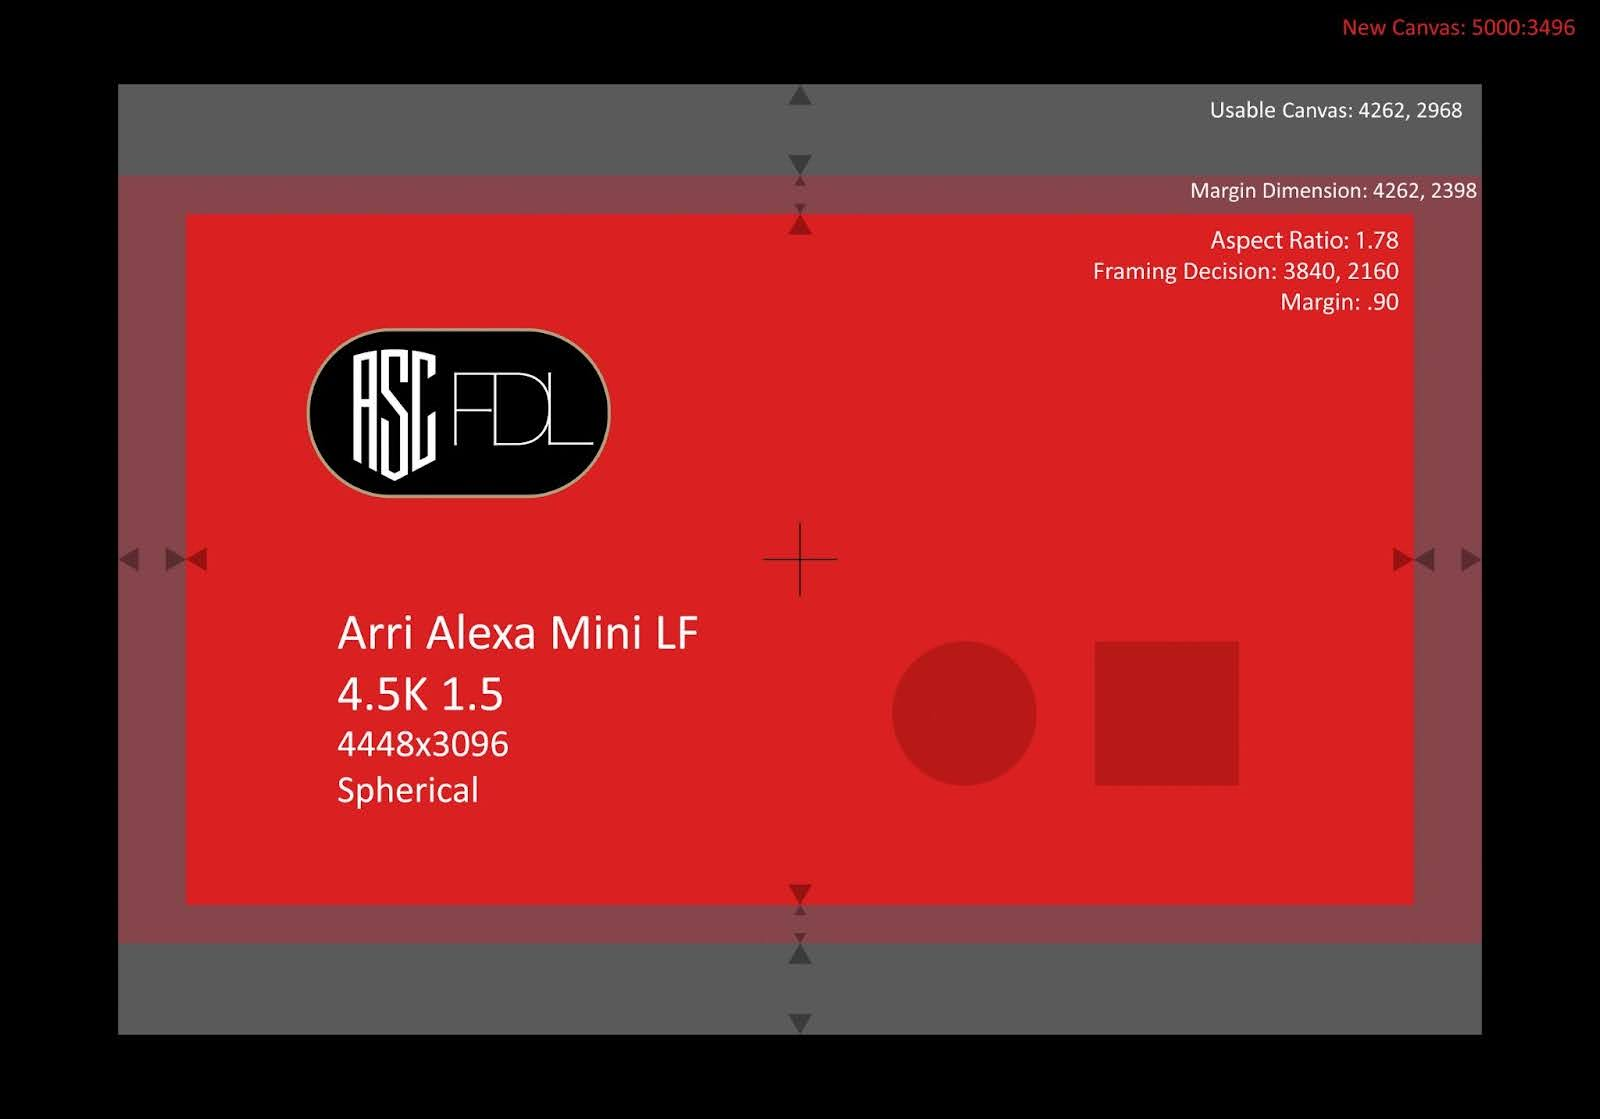
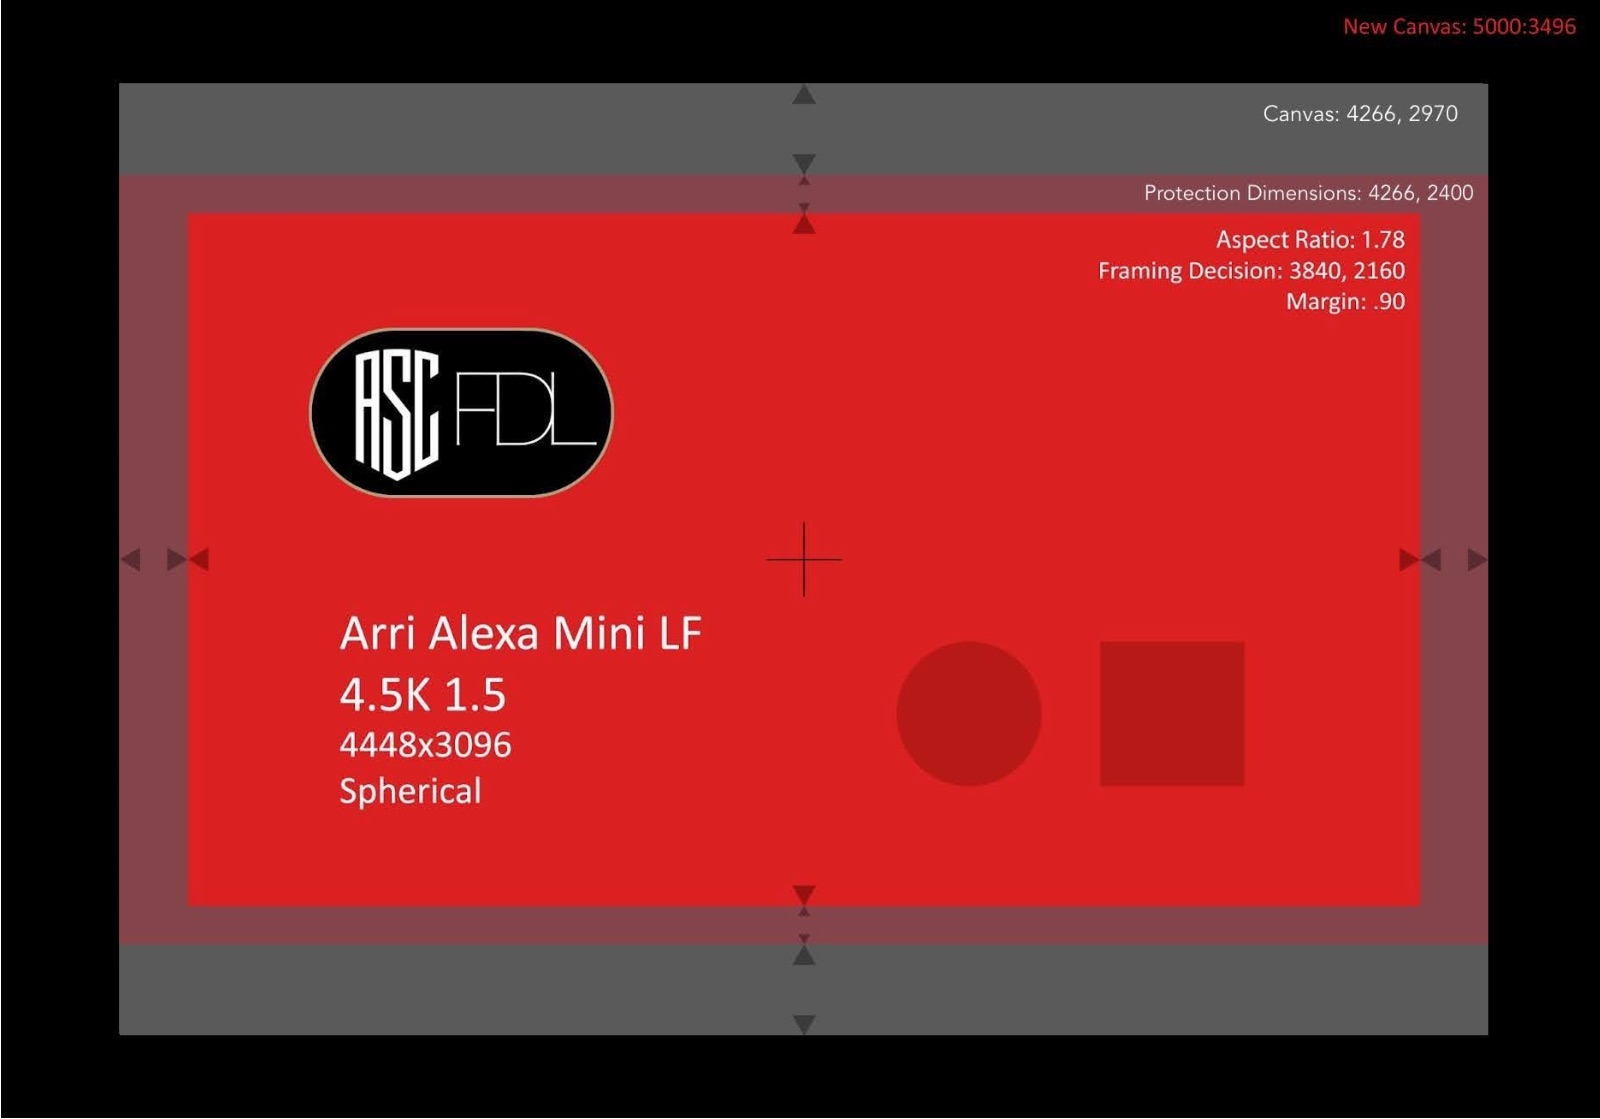
Update ASC FDL Specification v2.0.1 and images
Made-with: Cursor

diff --git a/Specification/ASCFDL_Specification_v2.0.1.md b/Specification/ASCFDL_Specification_v2.0.1.md
@@ -1201,7 +1201,7 @@ In the example used above for the `preserve_from_source` attribute, if a user ha
 
 However, if `maximum_dimensions`, is omitted, the dimensions of the resulting Canvas would not have been cropped.
 
-Example, with the same source image, Canvas Template `maximum_dimensions` values of {"width": 5000, "height": 3496} the resulting Canvas dimensions would still remain 4262 x 2968, as this attribute does not force any kind of scaling, and the dimensions do not meet or exceed the `maximum_dimensions` values.
+Example, with the same source image, Canvas Template `maximum_dimensions` values of {"width": 5000, "height": 3496} the resulting Canvas dimensions would still remain 4266 x 2970, as this attribute does not force any kind of scaling, and the dimensions do not meet or exceed the `maximum_dimensions` values.
 
 ![Maximum Dimensions No Crop](images/maximum-dimensions-no-crop.jpg)
 
@@ -1242,7 +1242,7 @@ The user has chosen the following values in their Canvas Template:
 "maximum_dimensions": { "width": 5000, "height": 3496 }
 ```
 
-With `pad_to_maximum` field set to false, the resulting Canvas dimensions would be  {"width": 3840, "height": 2160} and not forced to match the values defined in `maximum_dimensions`.
+With `pad_to_maximum` field set to false, the resulting Canvas dimensions would be  {"width": 4266, "height": 2970} and not forced to match the values defined in `maximum_dimensions`.
 
 ![Pad to Maximum False](images/pad-to-maximum-false.jpg)
 
@@ -1341,19 +1341,19 @@ Default Value: `"even": "even"`, `"mode": "up"`
           "source_canvas_id": "20220310",
           "dimensions": { "width": 4448, "height": 3096 },
           "effective_dimensions": { "width": 4448, "height": 3096 },
-          "effective_anchor_point": { "x": 0, "y": 0 },
+          "effective_anchor_point": { "x": 0.0, "y": 0.0 },
           "photosite_dimensions": { "width": 4448, "height": 3096 },
           "physical_dimensions": { "width": 36.7, "height": 25.54 },
-          "anamorphic_squeeze": 1,
+          "anamorphic_squeeze": 1.0,
           "framing_decisions": [
             {
               "label": "2-1 Framing",
               "id": "20220310-FDLSMP01",
               "framing_intent_id": "FDLSMP01",
-              "dimensions": { "width": 4004, "height": 2002 },
-              "anchor_point": { "x": 222, "y": 547 },
-              "protection_dimensions": { "width": 4448, "height": 2224 },
-              "protection_anchor_point": { "x": 0, "y": 436 }
+              "dimensions": { "width": 4004.0, "height": 2002.0 },
+              "anchor_point": { "x": 222.0, "y": 547.0 },
+              "protection_dimensions": { "width": 4448.0, "height": 2224.0 },
+              "protection_anchor_point": { "x": 0.0, "y": 436.0 }
             }
           ]
         }
@@ -1399,25 +1399,25 @@ Default Value: `"even": "even"`, `"mode": "up"`
           "effective_anchor_point": { "x": 0, "y": 0 },
           "photosite_dimensions": { "width": 4448, "height": 3096 },
           "physical_dimensions": { "width": 36.7, "height": 25.54 },
-          "anamorphic_squeeze": 1,
+          "anamorphic_squeeze": 1.0,
           "framing_decisions": [
             {
               "label": "Hero 1.78",
               "id": "20210902-29A901F1",
               "framing_intent_id": "29A901F1",
-              "dimensions": { "width": 4226, "height": 2376 },
-              "anchor_point": { "x": 111, "y": 360 },
-              "protection_dimensions": { "width": 4448, "height": 2508 },
-              "protection_anchor_point": { "x": 0, "y": 294 }
+              "dimensions": { "width": 4226.0, "height": 2376.0 },
+              "anchor_point": { "x": 111.0, "y": 360.0 },
+              "protection_dimensions": { "width": 4448.0, "height": 2508.0 },
+              "protection_anchor_point": { "x": 0.0, "y": 294.0 }
             },
             {
               "label": "Hero 2-1",
               "id": "20210902-0302684B",
               "framing_intent_id": "0302684B",
-              "dimensions": { "width": 4224, "height": 2112 },
-              "anchor_point": { "x": 112, "y": 492 },
-              "protection_dimensions": { "width": 4448, "height": 2224 },
-              "protection_anchor_point": { "x": 0, "y": 436 }
+              "dimensions": { "width": 4224.0, "height": 2112.0 },
+              "anchor_point": { "x": 112.0, "y": 492.0 },
+              "protection_dimensions": { "width": 4448.0, "height": 2224.0 },
+              "protection_anchor_point": { "x": 0.0, "y": 436.0 }
             }
           ]
         }
@@ -1448,7 +1448,7 @@ Default Value: `"even": "even"`, `"mode": "up"`
       "label": "VFX Pull",
       "id": "VX220310",
       "target_dimensions": { "width": 4096, "height": 1716 },
-      "target_anamorphic_squeeze": 1,
+      "target_anamorphic_squeeze": 1.0,
       "fit_source": "framing_decision.dimensions",
       "fit_method": "width",
       "alignment_method_vertical": "center",
@@ -1499,19 +1499,19 @@ Default Value: `"even": "even"`, `"mode": "up"`
           "source_canvas_id": "20220311",
           "dimensions": { "width": 4448, "height": 3096 },
           "effective_dimensions": { "width": 4004, "height": 2786 },
-          "effective_anchor_point": { "x": 222, "y": 155 },
+          "effective_anchor_point": { "x": 222.0, "y": 155.0 },
           "photosite_dimensions": { "width": 4448, "height": 3096 },
           "physical_dimensions": { "width": 36.7, "height": 25.54 },
-          "anamorphic_squeeze": 1,
+          "anamorphic_squeeze": 1.0,
           "framing_decisions": [
             {
               "label": "2-1 Framing",
               "id": "20220311-FDLSMP04",
               "framing_intent_id": "FDLSMP04",
-              "dimensions": { "width": 3804, "height": 1902 },
-              "anchor_point": { "x": 322, "y": 597 },
-              "protection_dimensions": { "width": 4004, "height": 2002 },
-              "protection_anchor_point": { "x": 222, "y": 547 }
+              "dimensions": { "width": 3804.0, "height": 1902.0 },
+              "anchor_point": { "x": 322.0, "y": 597.0 },
+              "protection_dimensions": { "width": 4004.0, "height": 2002.0 },
+              "protection_anchor_point": { "x": 222.0, "y": 547.0 }
             }
           ]
         }
@@ -1534,13 +1534,13 @@ Default Value: `"even": "even"`, `"mode": "up"`
     {
       "label": "2-1 Framing",
       "id": "FDLSMP04",
-      "aspect_ratio": { "width": 2, "height": 1 },
+      "aspect_ratio": { "width": 2.0, "height": 1.0 },
       "protection": 0.05
     }
   ],
   "contexts": [
     {
-      "label": "ArriLFV",
+      "label": "ArriLFV_Movie",
       "context_creator": "ASC FDL Committee",
       "clip_id": {
         "clip_name": "A002_C307_0523JT",
@@ -1549,23 +1549,58 @@ Default Value: `"even": "even"`, `"mode": "up"`
       "canvases": [
         {
           "label": "Open Gate Vignette",
-          "id": "20220311",
-          "source_canvas_id": "20220311",
+          "id": "20220311_V01",
           "dimensions": { "width": 4448, "height": 3096 },
           "effective_dimensions": { "width": 4004, "height": 2786 },
-          "effective_anchor_point": { "x": 222, "y": 155 },
+          "effective_anchor_point": { "x": 222.0, "y": 155.0 },
           "photosite_dimensions": { "width": 4448, "height": 3096 },
           "physical_dimensions": { "width": 36.7, "height": 25.54 },
-          "anamorphic_squeeze": 1,
+          "anamorphic_squeeze": 1.0,
           "framing_decisions": [
             {
               "label": "2-1 Framing",
               "id": "20220311-FDLSMP04",
               "framing_intent_id": "FDLSMP04",
-              "dimensions": { "width": 3804, "height": 1902 },
-              "anchor_point": { "x": 322, "y": 597 },
-              "protection_dimensions": { "width": 4004, "height": 2002 },
-              "protection_anchor_point": { "x": 222, "y": 547 }
+              "dimensions": { "width": 3804.0, "height": 1902.0 },
+              "anchor_point": { "x": 322.0, "y": 597.0 },
+              "protection_dimensions": { "width": 4004.0, "height": 2002.0 },
+              "protection_anchor_point": { "x": 222.0, "y": 547.0 }
+            }
+          ]
+        }
+      ]
+    },
+    {
+      "label": "ArriLFV_Sequence",
+      "context_creator": "ASC FDL Committee",
+      "clip_id": {
+        "clip_name": "A003_C307_0523JT",
+        "sequence": {
+          "value": "A003_C307_0523JT_###.exr",
+          "idx": "#",
+          "min": 0,
+          "max": 100
+        }
+      },
+      "canvases": [
+        {
+          "label": "Open Gate Full",
+          "id": "20220311_V02",
+          "dimensions": { "width": 4448, "height": 3096 },
+          "effective_dimensions": { "width": 4448, "height": 3096 },
+          "effective_anchor_point": { "x": 0.0, "y": 0.0 },
+          "photosite_dimensions": { "width": 4448, "height": 3096 },
+          "physical_dimensions": { "width": 36.7, "height": 25.54 },
+          "anamorphic_squeeze": 1.0,
+          "framing_decisions": [
+            {
+              "label": "2-1 Framing",
+              "id": "20220311-FDLSMP04_SEQ",
+              "framing_intent_id": "FDLSMP04",
+              "dimensions": { "width": 4224.0, "height": 2112.0 },
+              "anchor_point": { "x": 112.0, "y": 492.0 },
+              "protection_dimensions": { "width": 4448.0, "height": 2224.0 },
+              "protection_anchor_point": { "x": 0.0, "y": 436.0 }
             }
           ]
         }
